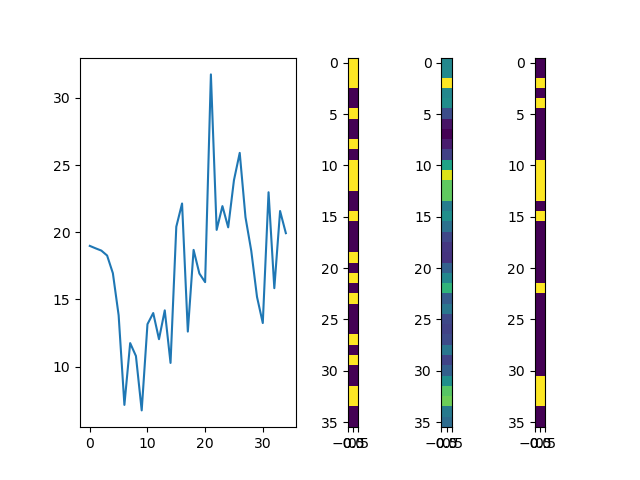
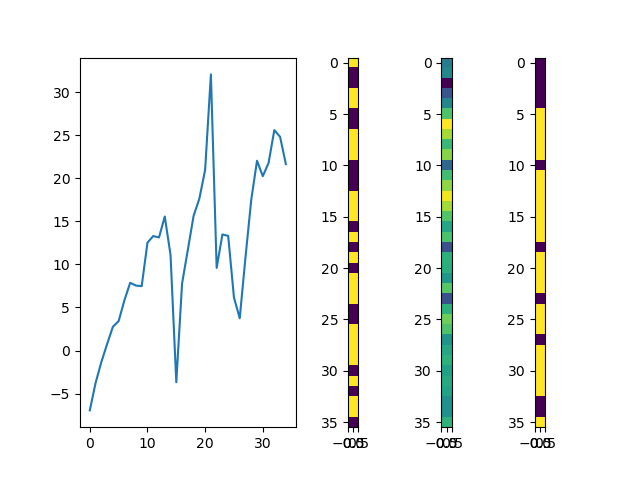
analysis

diff --git a/1d/peaks_to_slot/peaks_to_slots_model.py b/1d/peaks_to_slot/peaks_to_slots_model.py
@@ -52,7 +52,7 @@ class LWAPredictionModel(tf.keras.Model):
         total_slots = tf.math.abs(tf.math.subtract(tf.cast(tf.reduce_sum(tf.round(true), axis=1),tf.float32),tf.cast(tf.reduce_sum(tf.round(prediction), axis=1),tf.float32)))
         normalized = total_slots / tf.cast(tf.reduce_sum(tf.round(true),axis=1),tf.float32)
         # print(normalized)
-        return bce(true, prediction) + (2*tf.reduce_mean(normalized))
+        return bce(true, prediction) + (0*tf.reduce_mean(normalized))
         # return bce(true,prediction)
         # return
 

diff --git a/1d/peaks_to_slot/analysis.py b/1d/peaks_to_slot/analysis.py
@@ -29,7 +29,7 @@ def plot_rounded(which):
     ax[2].imshow(tf.expand_dims(pred,1),cmap = 'GnBu')
     ax[3].imshow(tf.expand_dims(naive,1),cmap = 'GnBu')
 
-plot_rounded(8)
+plot_rounded(1)
 
 
 
